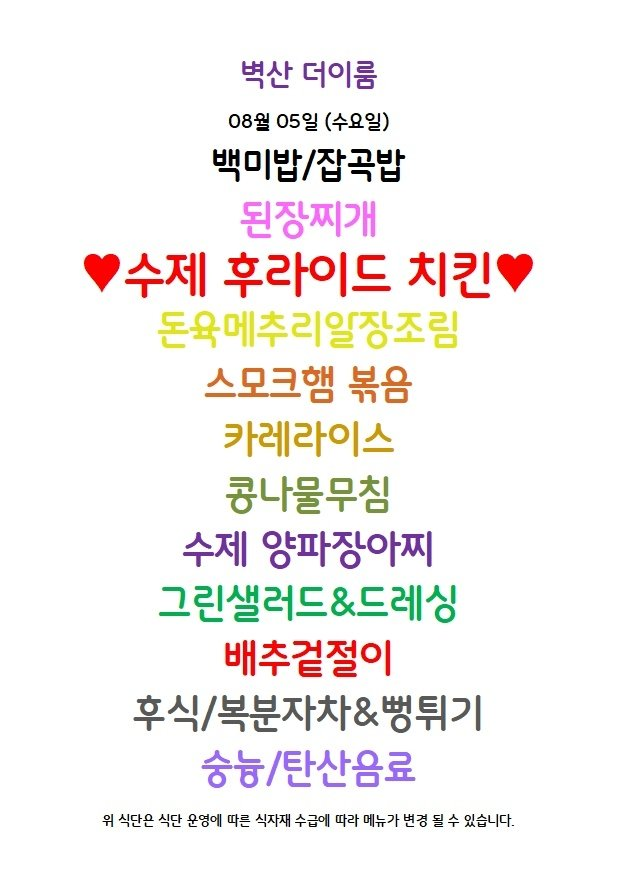
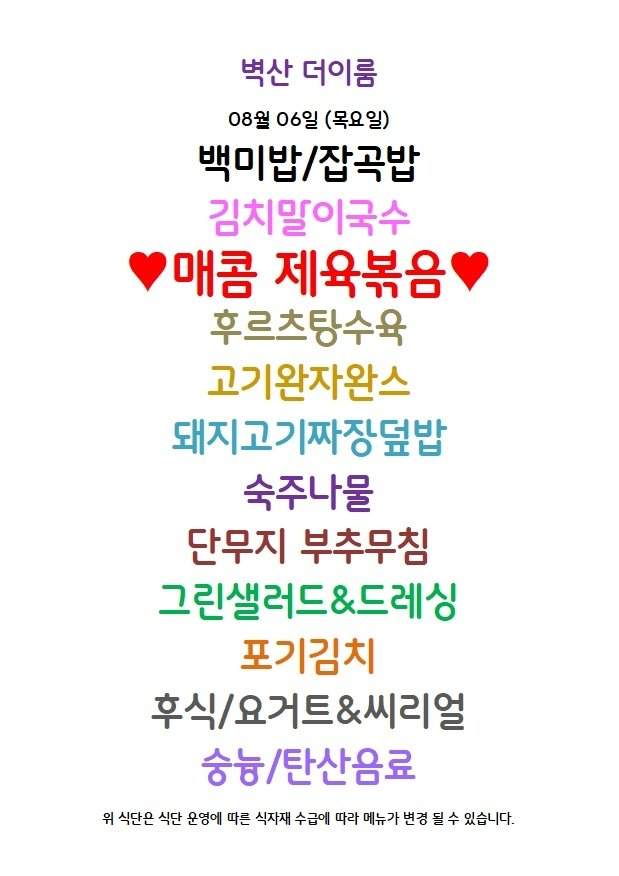
Update menu board assets

diff --git a/menu-today/index.html b/menu-today/index.html
@@ -209,7 +209,7 @@
 
     <section class="meta-bar">
       <div class="meta-card"><div class="meta-label">기준 날짜</div><div class="meta-value">2026년 8월 6일 목요일</div></div>
-      <div class="meta-card"><div class="meta-label">최종 가져온 시간</div><div class="meta-value">2026-08-06 10:13:19</div></div>
+      <div class="meta-card"><div class="meta-label">최종 가져온 시간</div><div class="meta-value">2026-08-06 10:18:06</div></div>
       <div class="meta-card"><div class="meta-label">확인 완료</div><div class="meta-value">9개 식당</div></div>
       <div class="meta-card"><div class="meta-label">준비중</div><div class="meta-value">3개 채널</div></div>
     </section>
@@ -235,7 +235,7 @@
             <div class="sub">가산 어반워크</div>
           </div>
         </div>
-        <div class="menu-inline-image"><img src="./images/dasibom.png" alt="다시 봄 식단 이미지"></div><ul><li>A 디드</li><li>기 티오 기</li></ul>
+        <div class="menu-inline-image"><img src="./images/dasibom.png" alt="다시 봄 식단 이미지"></div><ul><li>황태해장국</li><li>간파닭</li><li>고구마치즈돈까스</li><li>꿀 [더</li><li>&#x27; 미나리새콤무짐</li><li>싱싱샐러드</li><li>배추김치</li></ul>
       </article>
 
       <article class="restaurant-card">
@@ -295,7 +295,7 @@
             <div class="sub">에이스테크노타워10차</div>
           </div>
         </div>
-        <div class="menu-inline-image"><img src="./images/thefoodsketch.png" alt="더푸드스케치 식단 이미지"></div><ul><li>공나물애장국</li><li>직화삼겹실구이</li><li>기 치즈크로켓</li><li>훈제오리냉채</li><li>상추 / 배추 / 우령쌈장</li><li>무밀랭이무침</li><li>가든샐러드 &amp; 드레싱</li><li>배추겉절이 / 음료</li><li>공나물해장국</li><li>치즈크로켓</li><li>소세지전</li></ul>
+        <div class="menu-inline-image"><img src="./images/thefoodsketch.png" alt="더푸드스케치 식단 이미지"></div><ul><li>공나물애장국</li><li>직화삼겹실구이</li><li>기 치즈크로켓</li><li>훈제오리냉채</li><li>상추 / 배추 / 우령쌈장</li><li>무밀랭이무침</li><li>가든샐러드 / 드레싱</li><li>배추겉절이 / 음료</li><li>공나물해장국</li><li>치즈크로켓</li><li>소세지전</li></ul>
       </article>
 
       <article class="restaurant-card">

diff --git a/guro-menu/index.html b/guro-menu/index.html
@@ -32,7 +32,7 @@
   </header>
   <section class="meta">
     <div><small>기준 날짜</small><strong>2026년 8월 6일 목요일</strong></div>
-    <div><small>최종 갱신</small><strong>2026-08-06 10:13:33</strong></div>
+    <div><small>최종 갱신</small><strong>2026-08-06 10:18:17</strong></div>
     <div><small>등록 식당</small><strong>5개</strong></div>
   </section>
   <div class="notice">공개 카카오 채널의 메뉴 이미지를 자동 수집하고 OCR로 정리합니다. 텍스트에 오타가 있을 수 있으니 식단 이미지를 함께 확인해 주세요.</div>
@@ -89,8 +89,8 @@
           <a class="channel" href="https://pf.kakao.com/_xdLzxgG" target="_blank" rel="noopener">원본 채널</a>
         </div>
         <img class="menu-image" src="./images/byucksan-theirum.png" alt="벽산더이룸 식단 이미지" loading="lazy">
-        <p class="message">최신 공개 식단 이미지의 텍스트입니다. 날짜는 원본 이미지를 확인해 주세요.</p>
-        <ul><li>백미밥/잡곡밥</li><li>된장찌개</li><li>수제 후라이드 치킨</li><li>스모크햄 볶음</li><li>카레라이스</li><li>콩나물무침</li><li>수제 양파장아찌</li><li>그린샐러드&amp;드레싱</li><li>배주겉절이</li><li>후식/복분자차&amp;뱅튀기</li><li>숭늉/탄산음료</li></ul>
+        
+        <ul><li>백미밥/잡곡밥</li><li>김치밀이국수</li><li>매콤 제육볶음*</li><li>후르츠탕수육</li><li>고기완자완스</li><li>돼지고기짜장덮밥</li><li>숙주나물</li><li>단무지 부추무침</li><li>그린샐러드&amp;드레싱</li><li>포기김치</li><li>후식/요거트&amp;씨리얼</li><li>숭늉/탄산음료</li></ul>
       </article>
 
       <article class="restaurant-card">
